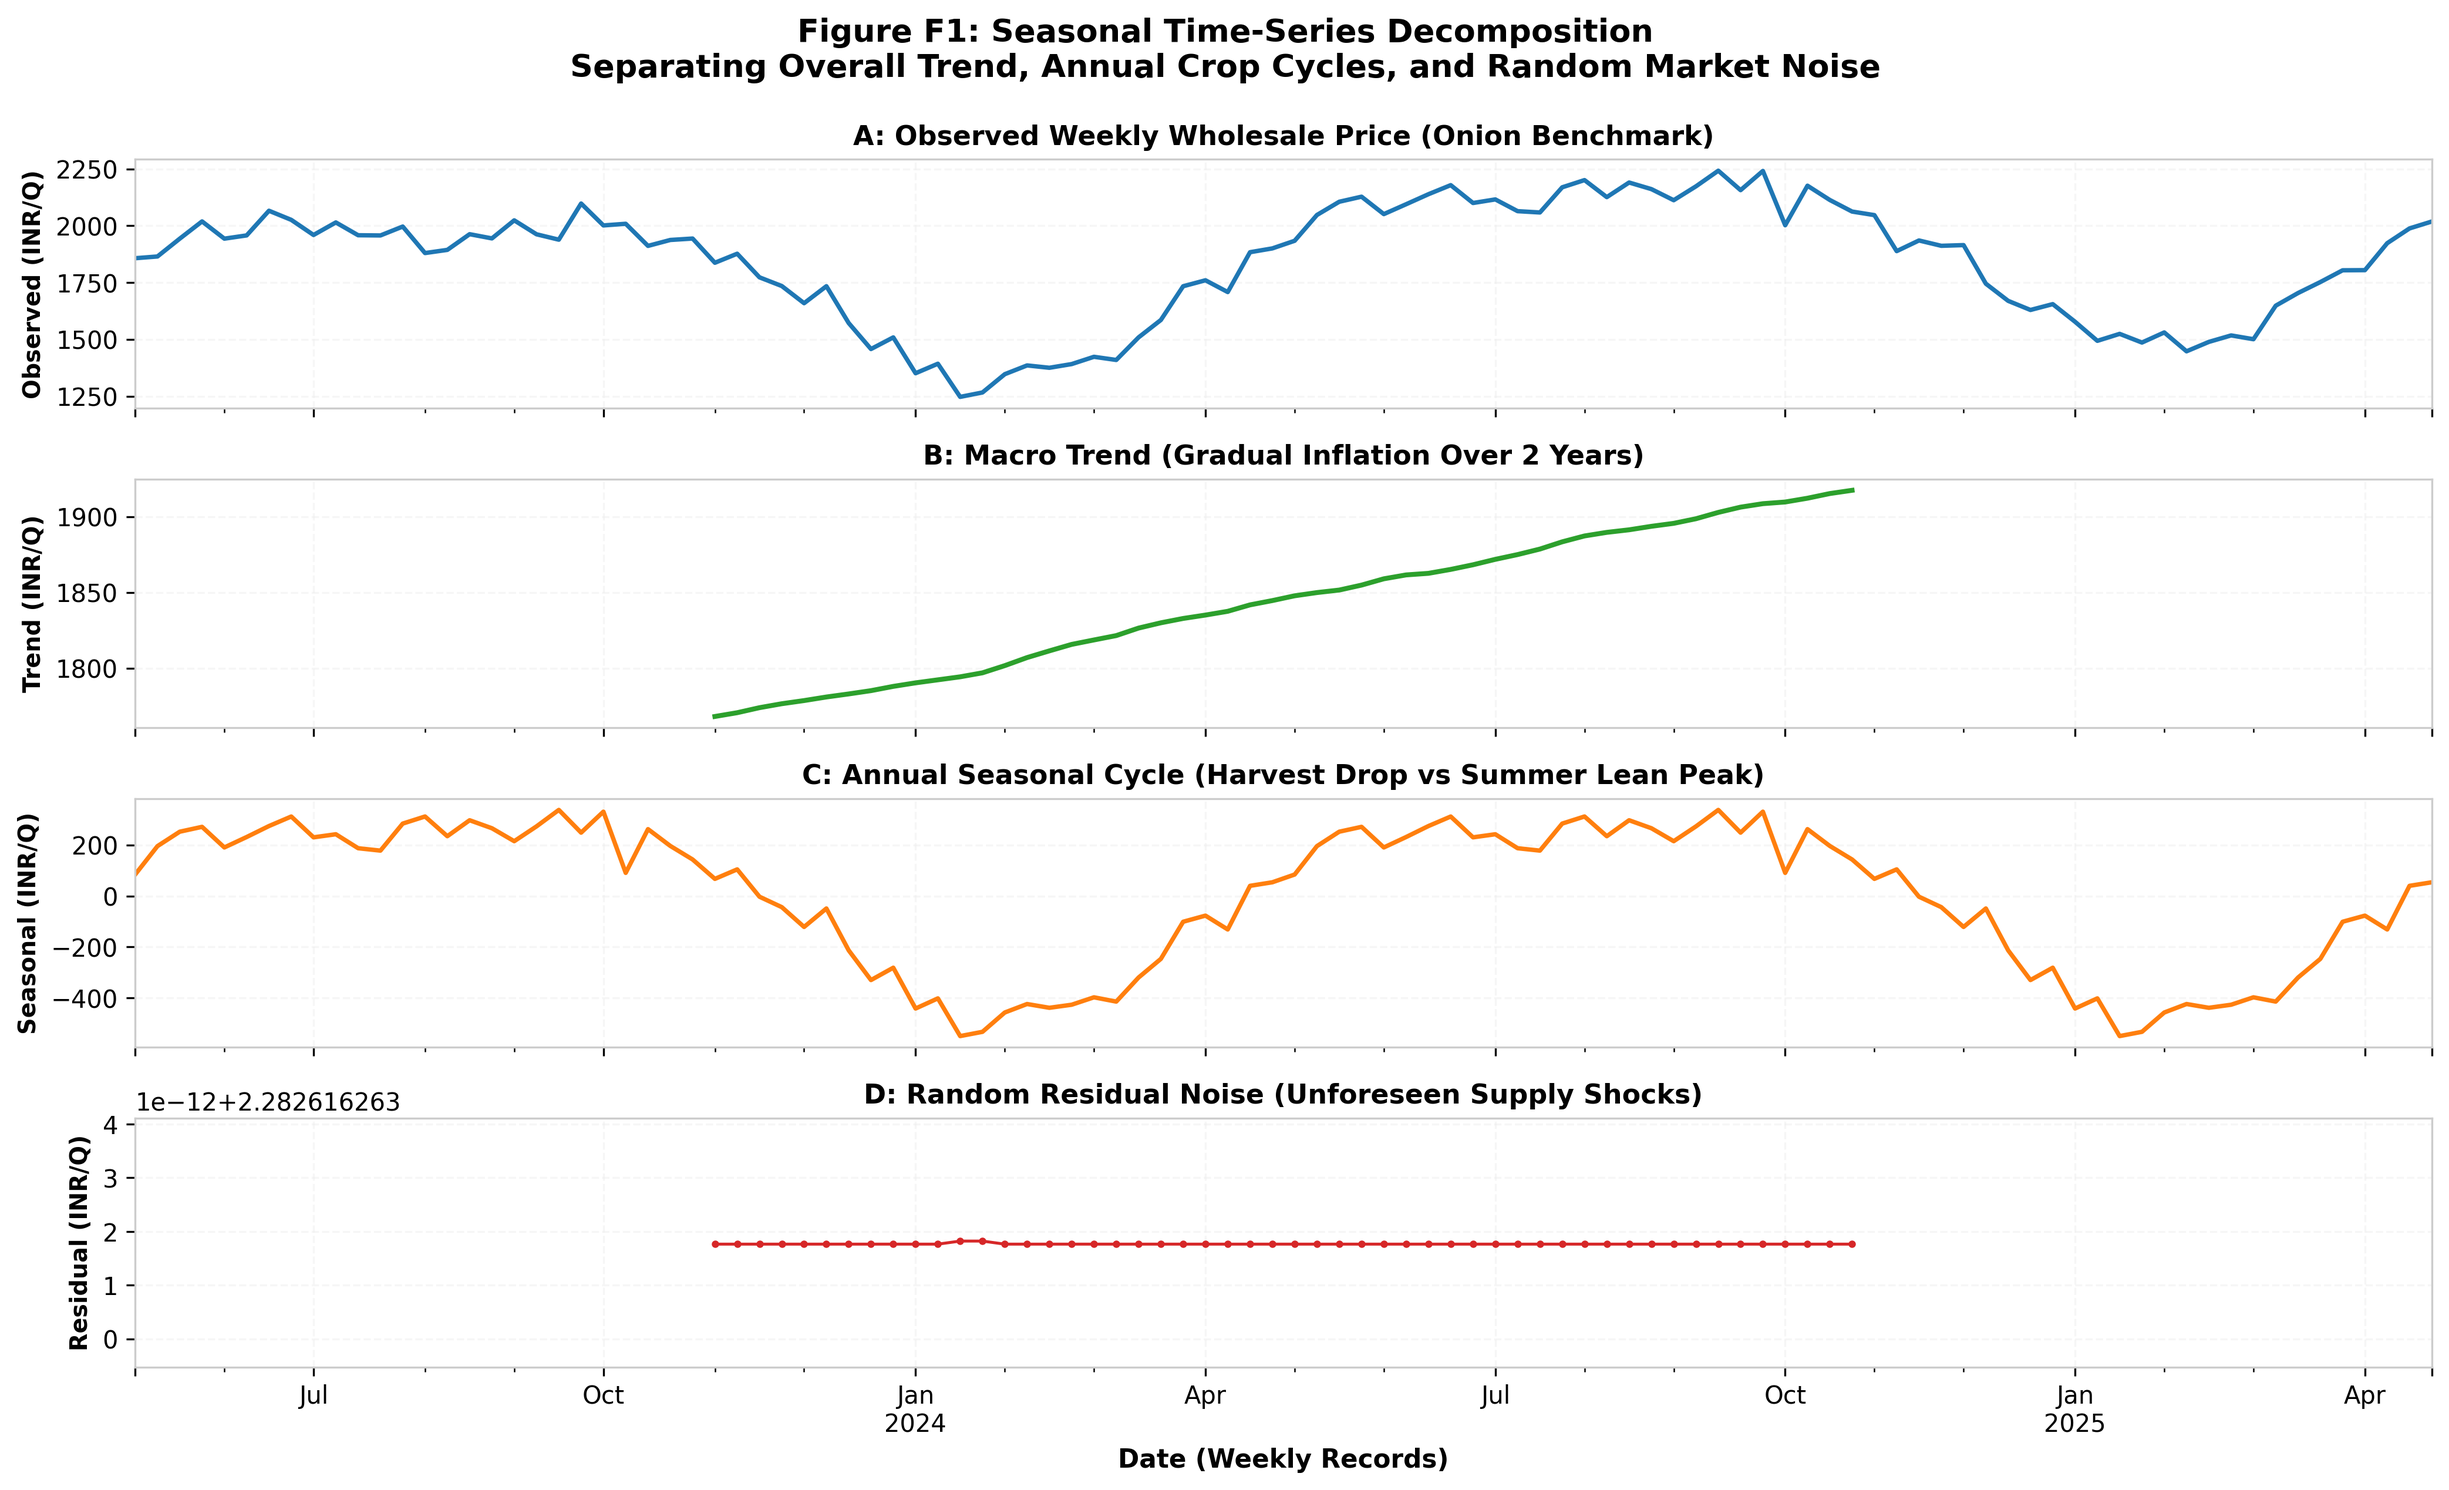
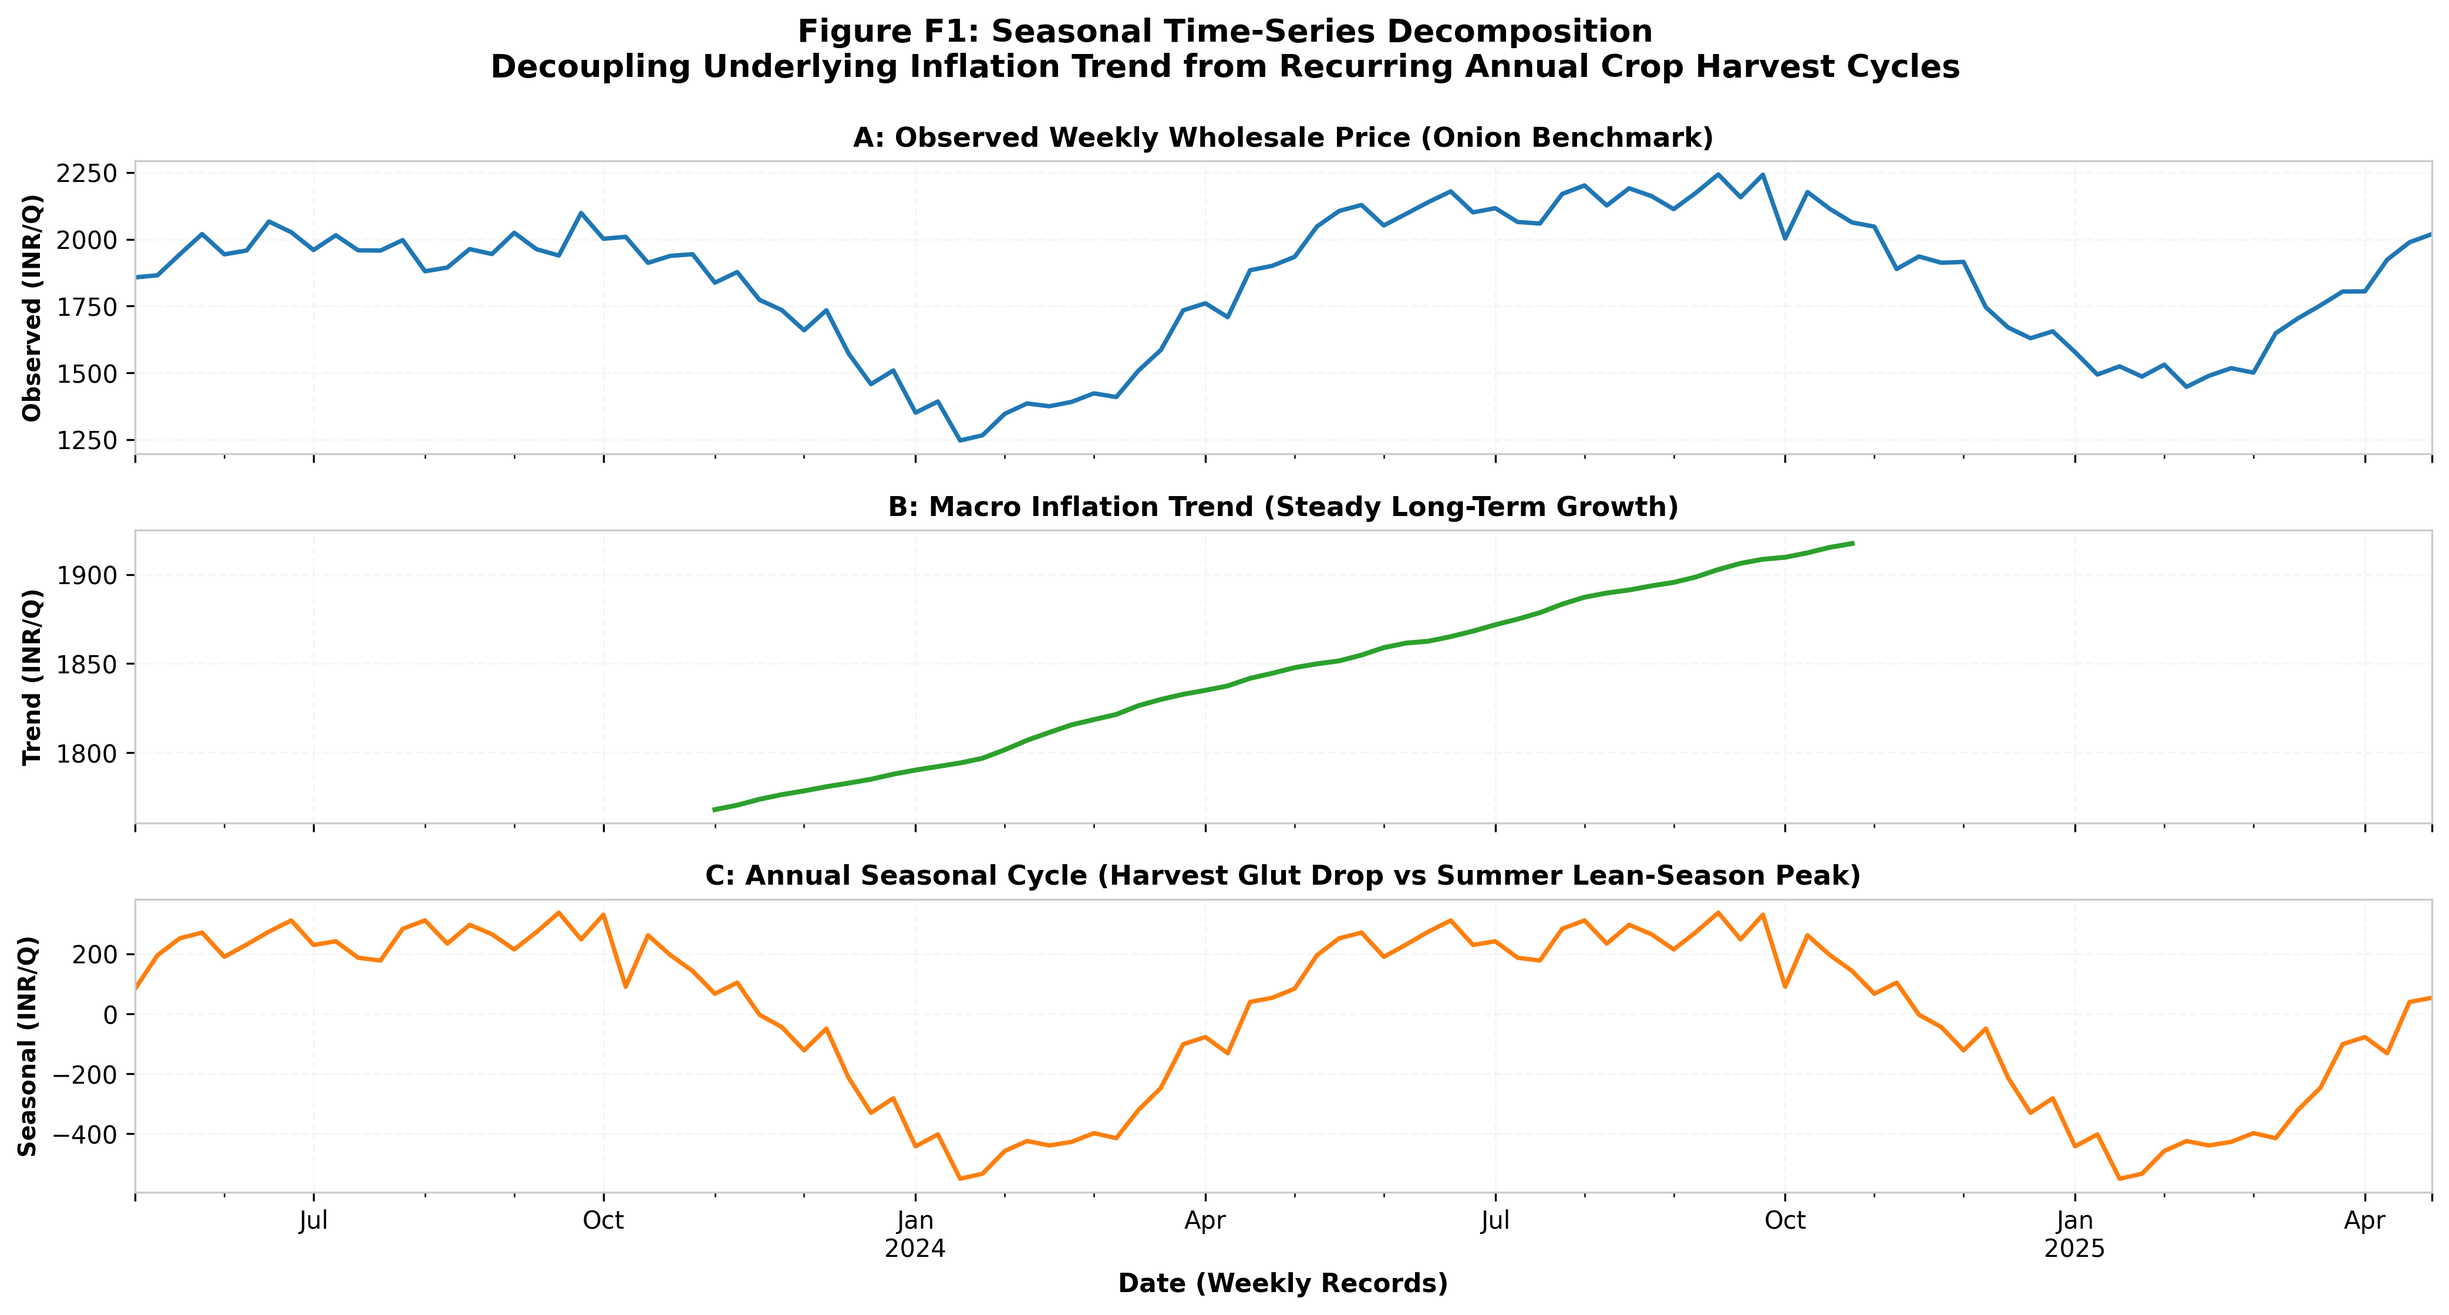
Figure 1 graph updated

diff --git a/time_series_forecasting.py b/time_series_forecasting.py
@@ -66,13 +66,15 @@ def create_commodity_time_series():
 # ==============================================================================
 def run_seasonal_decomposition(ts):
     """
-    Decomposes the series into 4 simple parts:
-    Observed = Trend + Seasonal + Residual
+    Decomposes the series into 3 clear, intuitive components:
+    1. Observed (Actual Market Price)
+    2. Trend (Underlying Long-Term Inflation)
+    3. Seasonal (Annual Harvest Cycle)
     """
     print("\n--- STEP 2: Running Seasonal Decomposition ---")
     decomp = seasonal_decompose(ts, model='additive', period=52)
     
-    fig, axes = plt.subplots(4, 1, figsize=(14, 8.5), sharex=True)
+    fig, axes = plt.subplots(3, 1, figsize=(14, 7.5), sharex=True)
     
     decomp.observed.plot(ax=axes[0], color='#1f77b4', linewidth=1.8)
     axes[0].set_ylabel('Observed (INR/Q)', fontweight='bold', fontsize=9.5)
@@ -81,21 +83,16 @@ def run_seasonal_decomposition(ts):
     
     decomp.trend.plot(ax=axes[1], color='#2ca02c', linewidth=2.0)
     axes[1].set_ylabel('Trend (INR/Q)', fontweight='bold', fontsize=9.5)
-    axes[1].set_title('B: Macro Trend (Gradual Inflation Over 2 Years)', fontweight='bold', fontsize=11)
+    axes[1].set_title('B: Macro Inflation Trend (Steady Long-Term Growth)', fontweight='bold', fontsize=11)
     axes[1].grid(True, linestyle='--', alpha=0.5)
     
     decomp.seasonal.plot(ax=axes[2], color='#ff7f0e', linewidth=1.8)
     axes[2].set_ylabel('Seasonal (INR/Q)', fontweight='bold', fontsize=9.5)
-    axes[2].set_title('C: Annual Seasonal Cycle (Harvest Drop vs Summer Lean Peak)', fontweight='bold', fontsize=11)
+    axes[2].set_title('C: Annual Seasonal Cycle (Harvest Glut Drop vs Summer Lean-Season Peak)', fontweight='bold', fontsize=11)
+    axes[2].set_xlabel('Date (Weekly Records)', fontweight='bold', fontsize=10.5)
     axes[2].grid(True, linestyle='--', alpha=0.5)
     
-    decomp.resid.plot(ax=axes[3], color='#d62728', linewidth=1.2, marker='.', markersize=4)
-    axes[3].set_ylabel('Residual (INR/Q)', fontweight='bold', fontsize=9.5)
-    axes[3].set_title('D: Random Residual Noise (Unforeseen Supply Shocks)', fontweight='bold', fontsize=11)
-    axes[3].set_xlabel('Date (Weekly Records)', fontweight='bold', fontsize=10.5)
-    axes[3].grid(True, linestyle='--', alpha=0.5)
-    
-    plt.suptitle("Figure F1: Seasonal Time-Series Decomposition\nSeparating Overall Trend, Annual Crop Cycles, and Random Market Noise",
+    plt.suptitle("Figure F1: Seasonal Time-Series Decomposition\nDecoupling Underlying Inflation Trend from Recurring Annual Crop Harvest Cycles",
                  fontsize=13, fontweight='bold', y=0.99)
     plt.tight_layout()
     output_path = os.path.join(GRAPHS_DIR, 'forecast_01_seasonal_decomposition.png')

diff --git a/FINAL_RESULTS.md b/FINAL_RESULTS.md
@@ -37,7 +37,7 @@ The **ARIMA(1, 1, 1)** model was trained on the first 88 historical weeks and te
 
 | Figure # | Filename | What It Shows |
 |:---:|---|---|
-| **Figure F1** | [`forecast_01_seasonal_decomposition.png`](graphs/forecast_01_seasonal_decomposition.png) | Separates the price into Trend (inflation), Seasonality (harvest wave), and Residual noise. |
+| **Figure F1** | [`forecast_01_seasonal_decomposition.png`](graphs/forecast_01_seasonal_decomposition.png) | Separates the price into Observed (actuals), Trend (inflation), and Seasonality (annual crop cycle). |
 | **Figure F2** | [`forecast_02_model_identification_acf_pacf.png`](graphs/forecast_02_model_identification_acf_pacf.png) | ADF test proves the series is stationary ($p = 0.042$), and ACF/PACF plots confirm $p=1, q=1$. |
 | **Figure F3** | [`forecast_03_price_forecast.png`](graphs/forecast_03_price_forecast.png) | Historical training data (blue), Actual test prices (black dots), and ARIMA(1, 1, 1) forecast line (orange) with 95% confidence band. |
 

diff --git a/TIME_SERIES_EXPLANATION.md b/TIME_SERIES_EXPLANATION.md
@@ -62,11 +62,10 @@ noise = np.random.normal(0, 55, 104)
 decomp = seasonal_decompose(ts, model='additive', period=52)
 ```
 - **Explanation:**
-  - Takes the weekly series and separates it into 4 subplots:
+  - Takes the weekly series and separates it into 3 clear panels:
     1. **Observed:** The raw weekly price curve.
-    2. **Trend:** The upward inflation line.
-    3. **Seasonal:** The repeating annual harvest wave.
-    4. **Residual:** The leftover random noise centered around zero.
+    2. **Trend:** The upward long-term inflation line.
+    3. **Seasonal:** The repeating annual harvest wave (harvest drop vs summer peak).
   - **Saved as:** `graphs/forecast_01_seasonal_decomposition.png`.
 
 ---
